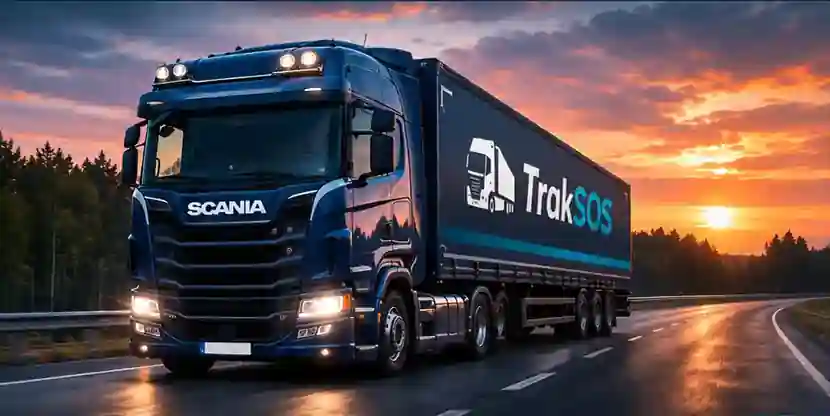
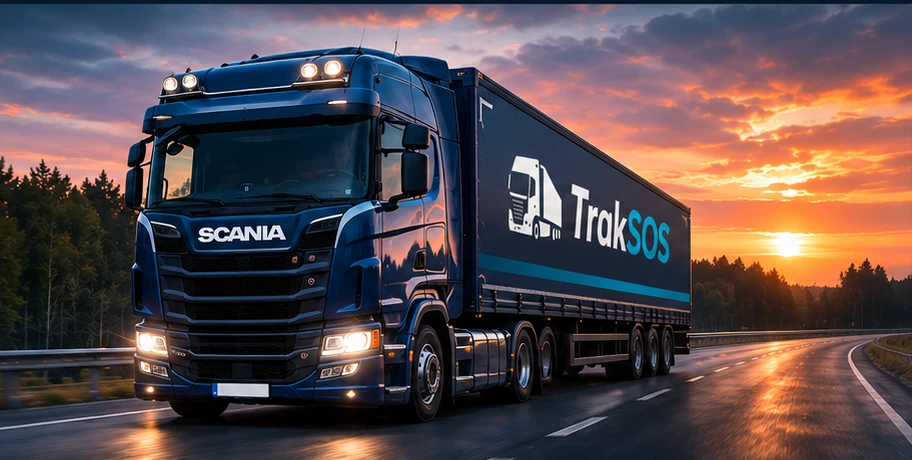
fix(approved-visual): exact approved hero source, remove four obsolete public arts, enforce clean bundle

diff --git a/web/src/styles.css b/web/src/styles.css
@@ -504,7 +504,7 @@ select.field { appearance: none; }
   .desktop-content > main.public-home { padding-top: 34px; gap: 22px; }
   .public-hero { min-height: 460px; background: #112b42; border: 1px solid #28445b; box-shadow: 0 18px 50px rgba(7,29,49,.18); }
   .public-hero::before { z-index: 1; background: linear-gradient(90deg,#0e253b 0%,rgba(14,37,59,.98) 27%,rgba(14,37,59,.78) 49%,rgba(14,37,59,.08) 86%); }
-  .public-hero-visual { inset: 0 0 0 29%; width: auto; opacity: 1; background: url('../public/tracksos-approved-truck.webp') center 52% / cover no-repeat; }
+  .public-hero-visual { inset: 0 0 0 29%; width: auto; opacity: 1; background: url('../public/tracksos-approved-scenic-hero.webp') center 52% / cover no-repeat; }
   .public-hero-visual > * { display: none; }
   .public-hero-copy { width: 69%; padding: 60px 26px 54px 54px; }
   .desktop-content .public-hero h1 { font-size: clamp(39px,4.4vw,62px); line-height: 1.05; letter-spacing: -1.65px; max-width: 670px; }
@@ -871,7 +871,7 @@ body:has(.app:not(.guest-app)){background:#071526;color:#f2f8ff;}
   .app:not(.guest-app) .desktop-content .site-footer .logo{color:#eaf9ff;}
   .app:not(.guest-app) .desktop-hero{
     background:linear-gradient(95deg,rgba(7,21,39,.97),rgba(8,31,56,.65) 63%,rgba(13,32,54,.15)),
-      url('../public/tracksos-approved-truck.webp') 70% center/cover no-repeat;
+      url('../public/tracksos-approved-scenic-hero.webp') 70% center/cover no-repeat;
     color:white;
     box-shadow:0 18px 40px rgba(0,7,19,.25);
     border:1px solid #345c78;
@@ -1764,7 +1764,7 @@ body:has(.app:not(.guest-app)){background:#071526;color:#f2f8ff;}
   .auth-desktop-layout{display:grid;grid-template-columns:minmax(320px,440px) minmax(0,1fr);gap:clamp(20px,3vw,48px);align-items:stretch;min-height:min(740px,calc(100vh - 145px));max-width:1420px;margin:0 auto;padding:24px clamp(12px,2vw,28px);}
   .auth-desktop-form{justify-content:center;max-width:440px;padding:18px 4px;}
   .auth-desktop-showcase{display:flex;position:relative;isolation:isolate;overflow:hidden;min-height:510px;border-radius:24px;background:#091e32;align-items:flex-end;color:white;box-shadow:0 18px 45px rgba(0,0,0,.2);}
-  .auth-desktop-showcase-photo{position:absolute;inset:0;background:url('../public/tracksos-approved-truck.webp') center center/contain no-repeat;}
+  .auth-desktop-showcase-photo{position:absolute;inset:0;background:url('../public/tracksos-approved-scenic-hero.webp') center center/contain no-repeat;}
   .auth-desktop-showcase::after{content:'';position:absolute;inset:0;z-index:0;background:linear-gradient(0deg,rgba(5,19,34,.96),rgba(5,19,34,.08) 65%);}
   .auth-desktop-showcase-copy{position:relative;z-index:1;padding:clamp(22px,4vw,48px);max-width:650px;}
   .auth-desktop-showcase-copy span{font-size:11px;font-weight:800;letter-spacing:1.6px;color:#ffb5d3;}

diff --git a/web/src/screens/login.tsx b/web/src/screens/login.tsx
@@ -338,7 +338,7 @@ export function Login({ driver, entry }: { driver?: boolean; entry?: Intent } = 
           <h2>Мобильное приложение <em>TrakSOS</em></h2>
           <div className="public-app-phone" aria-hidden="true">
             <span className="public-app-logo">Trak<b>SOS</b></span>
-            <img className="public-app-phone-truck" src="/tracksos-approved-scania-r520.webp" alt="" loading="lazy" />
+            <img className="public-app-phone-truck" src="/tracksos-approved-logo-owner-20261119.webp" alt="" loading="lazy" />
             <span>Помощь грузовику<br/>в дороге</span>
           </div>
           <p>Заявки, специалисты, документы и связь с мастером — в одном приложении.</p>

diff --git a/web/src/main.tsx b/web/src/main.tsx
@@ -616,7 +616,7 @@ function Shell({ mode, me, children }: { mode: Mode; me: Me | null; children: Re
           {!me && <aside className="track-sidebar-app" aria-label="Мобильное приложение TrakSOS">
             <span className="track-sidebar-app-glow" aria-hidden="true" />
             <span className="track-sidebar-app-phone" aria-hidden="true">
-              <img src="/tracksos-approved-scania-r520.webp" alt="" loading="lazy" />
+              <img src="/tracksos-approved-logo-owner-20261119.webp" alt="" loading="lazy" />
               <small>TrakSOS</small>
             </span>
             <span className="track-sidebar-app-copy">

diff --git a/web/src/approvedHeroImage20261119.css b/web/src/approvedHeroImage20261119.css
@@ -19,8 +19,8 @@
    The accepted desktop has a continuous navy-to-road photograph transition. */
 @media(min-width:900px){
   .guest-app .public-landing .public-hero-visual.public-hero-slide-approved{
-    -webkit-mask-image:linear-gradient(90deg,transparent 32%,#000 51%)!important;
-    mask-image:linear-gradient(90deg,transparent 32%,#000 51%)!important;
+    -webkit-mask-image:linear-gradient(90deg,transparent 37%,rgba(0,0,0,.45) 44%,#000 52%)!important;
+    mask-image:linear-gradient(90deg,transparent 37%,rgba(0,0,0,.45) 44%,#000 52%)!important;
   }
 }
 /* Mobile guest header: the old pseudo-element created a cyan/magenta slash

diff --git a/docs/VISUAL_RETIREMENT_AND_APPROVED_ART_2026-11-20.md b/docs/VISUAL_RETIREMENT_AND_APPROVED_ART_2026-11-20.md
@@ -1,0 +1,15 @@
+# TrakSOS — физическая очистка старого визуала от 20.11.2026
+
+## Только утверждённый эталон
+
[1 lines of base64/hex data omitted]
+
+## Удалённые из web/public ресурсы
+
+Физически исключены `tracksos-approved-truck.webp` (точный байтовый дубликат `tracksos-approved-scenic-hero.webp`), а также три неиспользуемых промо: `traksos-final-hero.webp`, `traksos-final-insurance.webp` и `traksos-final-parts.webp`. Перед удалением проверены прямые ссылки в 129 исходниках web/src и E2E; файлы не нужны ни одному актуальному маршруту. Ролевые фото и дизайн не удалены: ссылки на дубликат меняются на файл с теми же байтами. Старые Git-ветки не переинтегрировать как источник UI.
+
+Промо телефона и гостевой боковой баннер используют `tracksos-approved-logo-owner-20261119.webp`, а не старый тягач. В проверках закреплены SHA256 фуры, отсутствие этих четырёх ассетов и загрузка реальных изображений через Chromium. Проверка публикации RuStore, Android и всех ролевых кабинетов остаётся обязательной.
+
+## Нерешённое
+
[1 lines of base64/hex data omitted]
